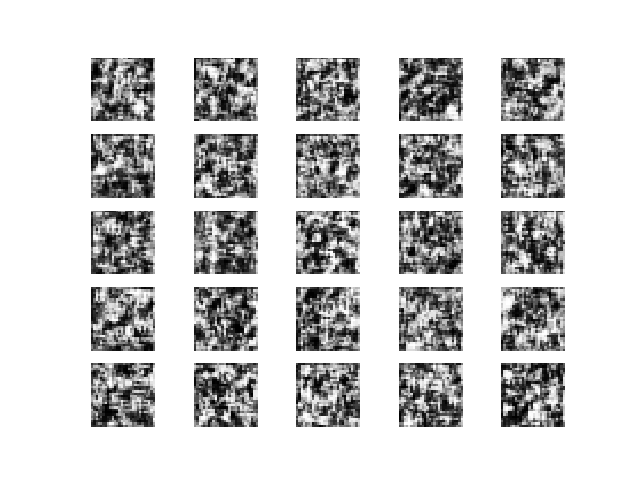
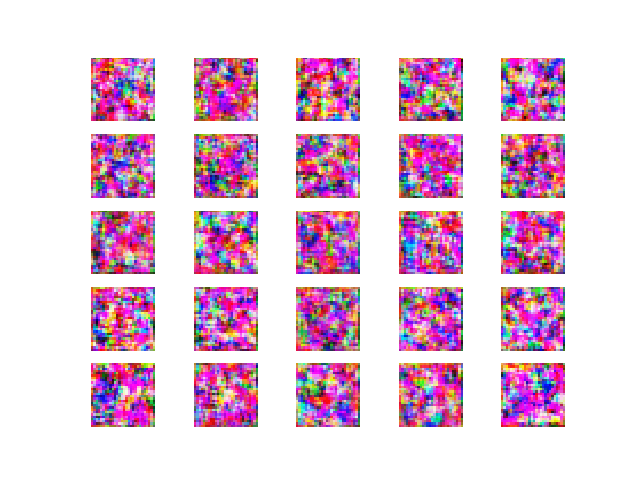
Update demo

diff --git a/README.md b/README.md
@@ -21,7 +21,12 @@ http://www.nurs.or.jp/~nagadomi/animeface-character-dataset/README.html
 # Demo
 
 Itteration 0
+
 ![Itteration 0](https://github.com/abars/AnimeFaceGenerator/blob/master/demo/dcgan_0.png "Itteration 0")
+
+Itteration 2500
+
+![Itteration 2500](https://github.com/abars/AnimeFaceGenerator/blob/master/demo/dcgan_2500.png "Itteration 2500")
 
 # Acknowledgement
 
